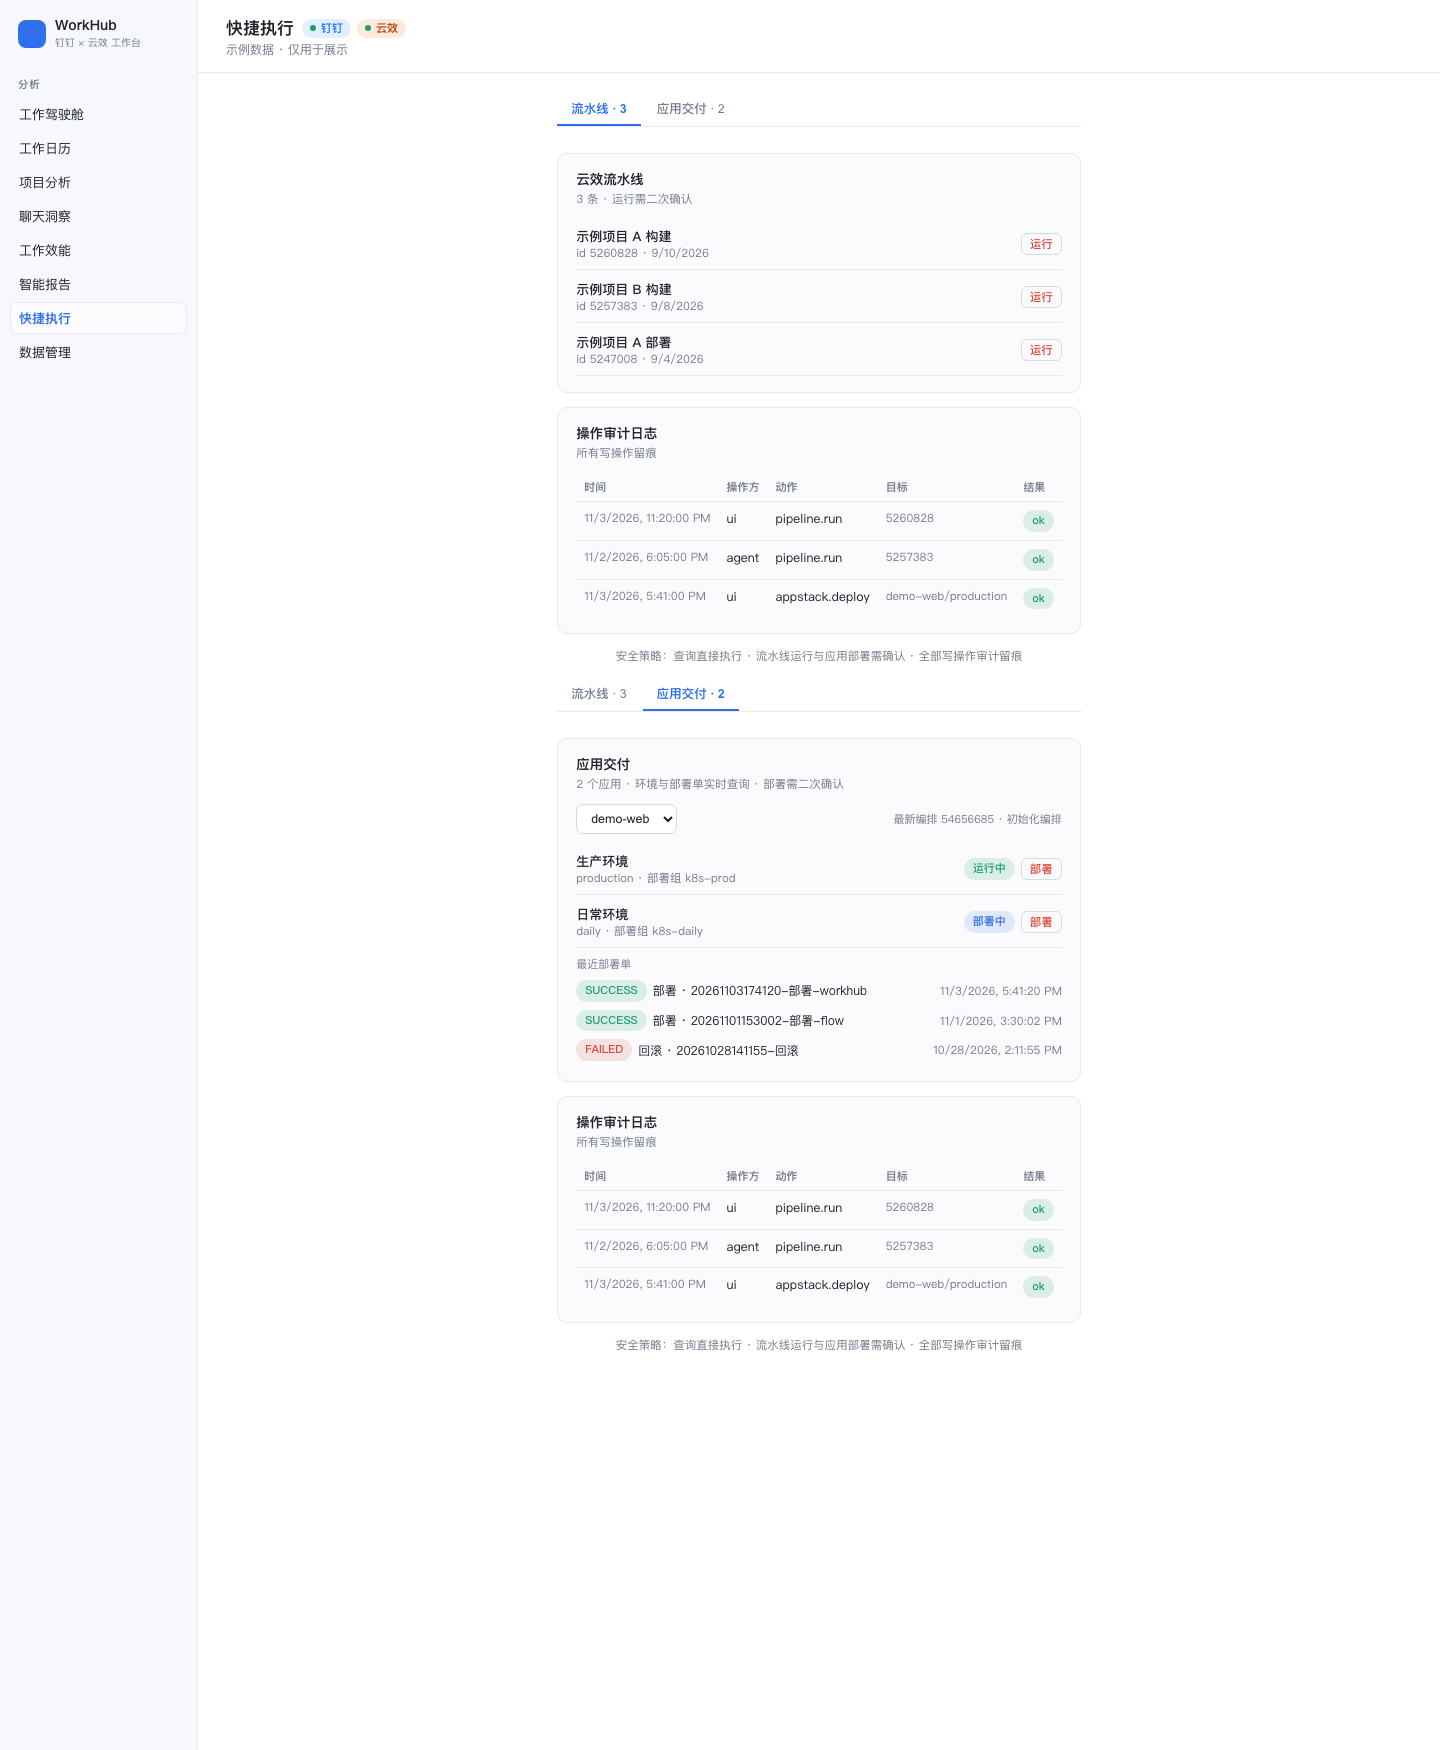
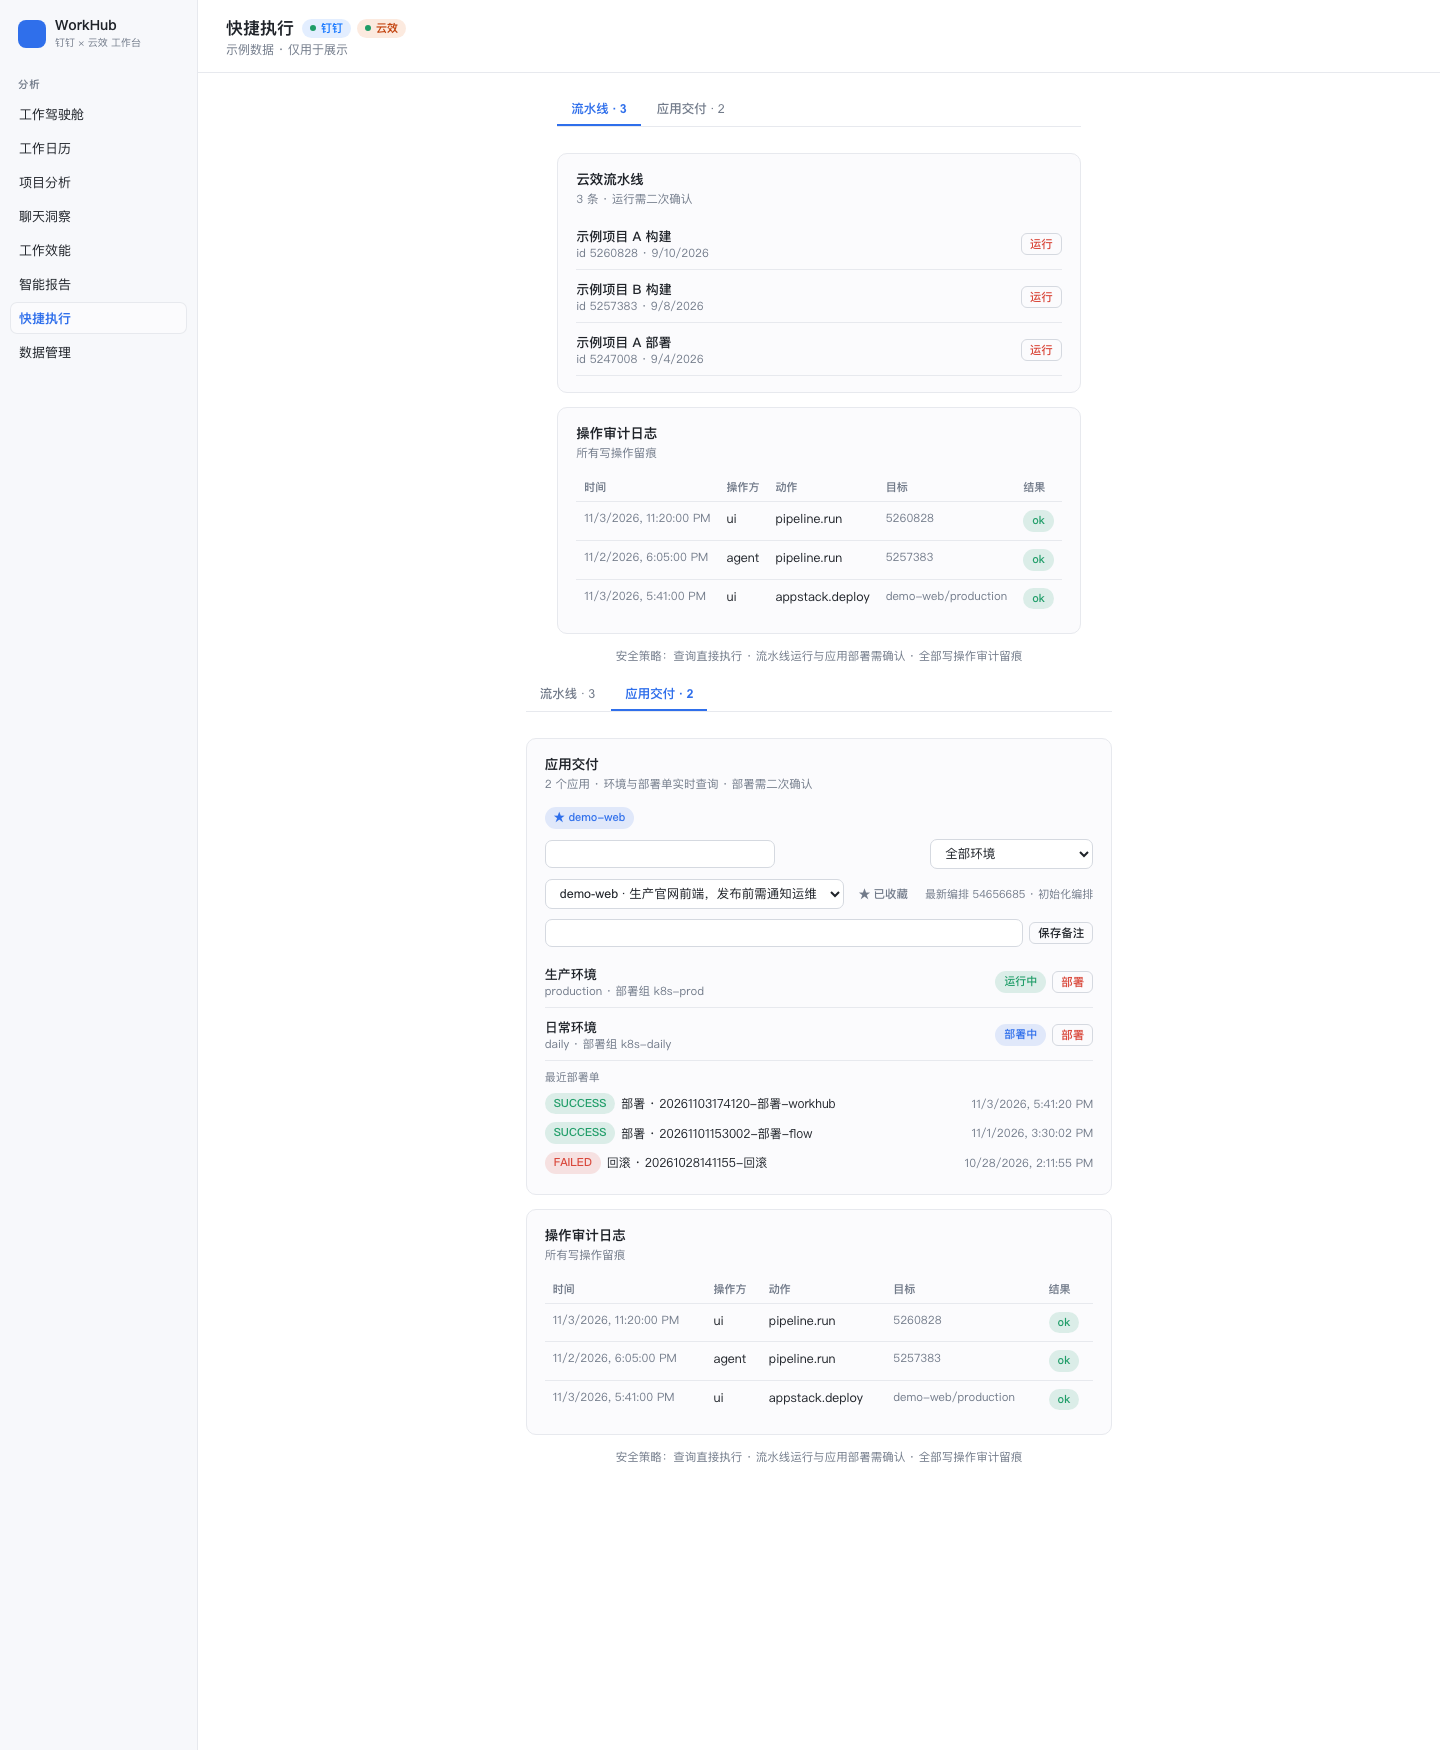
feat: 应用交付支持应用搜索、环境筛选、常用收藏与应用备注（本地存储）

diff --git a/client.js b/client.js
@@ -250,8 +250,8 @@ window.__ModuleLoader__.load({
         hint ? h('div', { className: 'wh-stat-hint' }, hint) : null)
     }
 
-    function Chip({ tone = 'neutral', children, style }) {
-      return h('span', { className: `wh-chip ${tone}`, style }, children)
+    function Chip({ tone = 'neutral', children, style, onClick, title }) {
+      return h('span', { className: `wh-chip ${tone}`, style, onClick, title }, children)
     }
 
     function Btn({ variant, size, disabled, onClick, children, style, title }) {
@@ -2105,6 +2105,11 @@ window.__ModuleLoader__.load({
       const [appsData, setAppsData] = useState(null)
       const [selApp, setSelApp] = useState('')
       const [detail, setDetail] = useState(null)
+      const [prefs, setPrefs] = useState(null)
+      const [search, setSearch] = useState('')
+      const [envFilter, setEnvFilter] = useState('')
+      const [noteDraft, setNoteDraft] = useState('')
+      const [noteBusy, setNoteBusy] = useState(false)
       const load = useCallback(() => api('/actions/pipelines').then(setData).catch((e) => setMsg(String(e.message))), [])
       useEffect(() => { void load() }, [load])
 
@@ -2124,6 +2129,37 @@ window.__ModuleLoader__.load({
           .then(setDetail)
           .catch((e) => setDetail({ error: { message: String(e.message) } }))
       }, [selApp])
+
+      useEffect(() => {
+        void api('/actions/appstack/prefs')
+          .then(setPrefs)
+          .catch(() => setPrefs({ favorites: [], notes: {} }))
+      }, [])
+
+      // 切换应用 / 备注载入时重置环境筛选与备注草稿
+      useEffect(() => {
+        setEnvFilter('')
+        setNoteDraft(prefs?.notes?.[selApp] ?? '')
+      }, [selApp, prefs?.notes?.[selApp]])
+
+      const toggleFav = async () => {
+        if (!selApp) return
+        const cur = prefs?.favorites ?? []
+        const favorites = cur.includes(selApp) ? cur.filter((x) => x !== selApp) : [...cur, selApp]
+        try {
+          const r = await api('/actions/appstack/prefs', { method: 'POST', body: JSON.stringify({ favorites }) })
+          setPrefs((p0) => ({ favorites: r.favorites, notes: (p0 ?? {}).notes ?? r.notes }))
+        } catch (e) { setMsg(`收藏失败: ${e.message}`) }
+      }
+
+      const saveNote = async () => {
+        if (!selApp) return
+        setNoteBusy(true)
+        try {
+          const r = await api('/actions/appstack/prefs', { method: 'POST', body: JSON.stringify({ notes: { [selApp]: noteDraft.trim() } }) })
+          setPrefs((p0) => ({ favorites: (p0 ?? {}).favorites ?? r.favorites, notes: r.notes }))
+        } catch (e) { setMsg(`备注保存失败: ${e.message}`) } finally { setNoteBusy(false) }
+      }
 
       const run = async (pipelineId, name) => {
         if (!window.confirm(`确认运行流水线？\n\n${name}（id: ${pipelineId}）\n\n该操作将真实触发云效流水线执行。`)) return
@@ -2168,28 +2204,85 @@ window.__ModuleLoader__.load({
                     busy === p.source_id ? '运行中…' : '运行'))))
           : h(Empty, { icon: '⚙', title: '暂无流水线', hint: '先在数据管理同步 yunxiao.pipelines' }))
 
-      const appstackCard = h(Card, { title: '应用交付', sub: `${appsData?.apps?.length ?? 0} 个应用 · 环境与部署单实时查询 · 部署需二次确认` },
+      const allApps = appsData?.apps ?? []
+      const notes = prefs?.notes ?? {}
+      const favNames = (prefs?.favorites ?? []).filter((n) => allApps.some((a) => a.name === n))
+      const q = search.trim().toLowerCase()
+      const filteredApps = q
+        ? allApps.filter((a) =>
+            a.name.toLowerCase().includes(q)
+            || (a.description ?? '').toLowerCase().includes(q)
+            || (notes[a.name] ?? '').toLowerCase().includes(q))
+        : allApps
+      const shownEnvs = (detail?.envs ?? []).filter((e) => !envFilter || e.name === envFilter)
+
+      const appstackCard = h(Card, { title: '应用交付', sub: `${allApps.length} 个应用 · 环境与部署单实时查询 · 部署需二次确认` },
           appsData?.error
             ? h('div', { className: 'wh-muted', style: { fontSize: 12 } }, `⚠ ${appsData.error.message}`)
-            : (appsData?.apps?.length ?? 0) === 0
+            : allApps.length === 0
               ? h(Empty, { icon: '⬆', title: '暂无应用交付应用', hint: '云效 Appstack 应用会显示在这里' })
               : h('div', { style: { display: 'flex', flexDirection: 'column', gap: 10 } },
+                  favNames.length
+                    ? h('div', { className: 'wh-tags', style: { gap: 5 } },
+                        favNames.map((n) =>
+                          h(Chip, {
+                            key: n,
+                            tone: selApp === n ? 'brand' : 'neutral',
+                            style: { cursor: 'pointer' },
+                            onClick: () => setSelApp(n),
+                            title: notes[n] || `切换到 ${n}`,
+                          }, `★ ${n}`)))
+                    : null,
                   h('div', { className: 'wh-toolbar', style: { justifyContent: 'space-between' } },
+                    h('input', {
+                      className: 'wh-input', style: { width: 230 },
+                      placeholder: `搜索 ${allApps.length} 个应用 / 备注…`, value: search,
+                      onChange: (e) => setSearch(e.target.value),
+                    }),
                     h('select', {
-                      className: 'wh-select', value: selApp,
-                      onChange: (e) => setSelApp(e.target.value),
+                      className: 'wh-select', value: envFilter,
+                      onChange: (e) => setEnvFilter(e.target.value),
                     },
-                      (appsData.apps ?? []).map((a) => h('option', { key: a.name, value: a.name }, a.name))),
+                      h('option', { value: '' }, '全部环境'),
+                      (detail?.envs ?? []).map((e) =>
+                        h('option', { key: e.name, value: e.name }, `${e.displayName || e.name} (${e.name})`)))),
+                  h('div', { className: 'wh-toolbar', style: { justifyContent: 'space-between' } },
+                    h('div', { className: 'wh-toolbar', style: { gap: 6, flex: 1, minWidth: 0 } },
+                      filteredApps.length
+                        ? h('select', {
+                            className: 'wh-select', style: { flex: 1, minWidth: 160 }, value: selApp,
+                            onChange: (e) => setSelApp(e.target.value),
+                          },
+                            filteredApps.map((a) =>
+                              h('option', { key: a.name, value: a.name },
+                                notes[a.name] ? `${a.name} · ${notes[a.name].slice(0, 18)}` : a.name)))
+                        : h('span', { className: 'wh-muted', style: { fontSize: 12 } }, `无匹配「${search.trim()}」的应用`),
+                      selApp
+                        ? h(Btn, {
+                            size: 'sm', variant: 'ghost', onClick: toggleFav,
+                            title: favNames.includes(selApp) ? '从常用移除' : '加入常用',
+                          }, favNames.includes(selApp) ? '★ 已收藏' : '☆ 收藏')
+                        : null),
                     detail?.orchestration?.sha
                       ? h('span', { className: 'wh-muted', style: { fontSize: 11 } }, `最新编排 ${String(detail.orchestration.sha).slice(0, 8)} · ${detail.orchestration.message || '无描述'}`)
                       : null),
+                  selApp
+                    ? h('div', { className: 'wh-toolbar', style: { gap: 6 } },
+                        h('input', {
+                          className: 'wh-input', style: { flex: 1 },
+                          placeholder: '备注（如：生产官网前端，发布前需通知运维）', value: noteDraft,
+                          onChange: (e) => setNoteDraft(e.target.value),
+                        }),
+                        h(Btn, { size: 'sm', disabled: noteBusy, onClick: saveNote },
+                          noteBusy ? '保存中…' : '保存备注'))
+                    : null,
                   detail?.error
                     ? h('div', { className: 'wh-muted', style: { fontSize: 12 } }, `⚠ ${detail.error.message}`)
                     : !detail
                       ? h('div', { className: 'wh-muted', style: { fontSize: 12 } }, '加载环境与部署单…')
                       : h('div', { style: { display: 'flex', flexDirection: 'column', gap: 2 } },
-                          (detail.envs ?? []).length
-                            ? (detail.envs ?? []).map((e) =>
+                          shownEnvs.length
+                            ? shownEnvs.map((e) =>
                               h('div', {
                                 key: e.name,
                                 className: 'wh-toolbar',
@@ -2202,7 +2295,11 @@ window.__ModuleLoader__.load({
                                   h(Chip, { tone: envTone(e.state) }, ENV_STATE[e.state] ?? e.state ?? '未知'),
                                   h(Btn, { variant: 'danger', size: 'sm', disabled: !!busy, onClick: () => deploy(e.name) },
                                     busy === `deploy:${e.name}` ? '部署中…' : '部署'))))
-                            : h(Empty, { icon: '◇', title: '该应用暂无环境', hint: '在云效 Appstack 中为应用创建环境' }),
+                            : h(Empty, {
+                                icon: '◇',
+                                title: (detail.envs ?? []).length ? '该筛选下无环境' : '该应用暂无环境',
+                                hint: (detail.envs ?? []).length ? '切换「全部环境」查看' : '在云效 Appstack 中为应用创建环境',
+                              }),
                           (detail.orders ?? []).length
                             ? h('div', { style: { marginTop: 6 } },
                                 h('div', { className: 'wh-muted', style: { fontSize: 11, marginBottom: 4 } }, '最近部署单'),

diff --git a/lib/api.js b/lib/api.js
@@ -376,6 +376,16 @@ export function createWorkHubRouter(options = {}) {
       }
     },
 
+    /* 应用交付本地偏好（收藏/备注）：存本地 settings，不涉及上游 */
+    '/actions/appstack/prefs': async () => {
+      let prefs = {}
+      try { prefs = JSON.parse(db.getSetting('appstack.prefs') ?? '{}') } catch { prefs = {} }
+      return {
+        favorites: Array.isArray(prefs.favorites) ? prefs.favorites : [],
+        notes: prefs.notes && typeof prefs.notes === 'object' ? prefs.notes : {},
+      }
+    },
+
     /* --------------------------- data sources ---------------------------- */
 
     '/sources': async () => {
@@ -1016,6 +1026,25 @@ export function createWorkHubRouter(options = {}) {
         db.logAction({ operator: 'ui', action: 'appstack.deploy', target: `${appName}/${envName}`, status: 'error', result: { error: String(e?.message || e) } })
         throw e
       }
+    },
+    /* 应用交付本地偏好写入：favorites 全量替换（≤30 个），notes 按 key 合并（空值删除）。 */
+    '/actions/appstack/prefs': async (params, body) => {
+      let prefs = {}
+      try { prefs = JSON.parse(db.getSetting('appstack.prefs') ?? '{}') } catch { prefs = {} }
+      if (Array.isArray(body?.favorites)) {
+        prefs.favorites = [...new Set(body.favorites.map(String).filter((x) => /^[\w.-]+$/.test(x)))].slice(0, 30)
+      }
+      if (body?.notes && typeof body.notes === 'object' && !Array.isArray(body.notes)) {
+        const notes = { ...(prefs.notes ?? {}) }
+        for (const [k, v] of Object.entries(body.notes)) {
+          if (!/^[\w.-]+$/.test(k)) continue
+          if (v == null || String(v).trim() === '') delete notes[k]
+          else notes[k] = String(v).slice(0, 200)
+        }
+        prefs.notes = notes
+      }
+      db.setSetting('appstack.prefs', JSON.stringify(prefs))
+      return { ok: true, favorites: prefs.favorites ?? [], notes: prefs.notes ?? {} }
     },
     '/sources/yunxiao/disconnect': async () => {
       const ref = db.getSetting('yunxiao.credentialRef')
